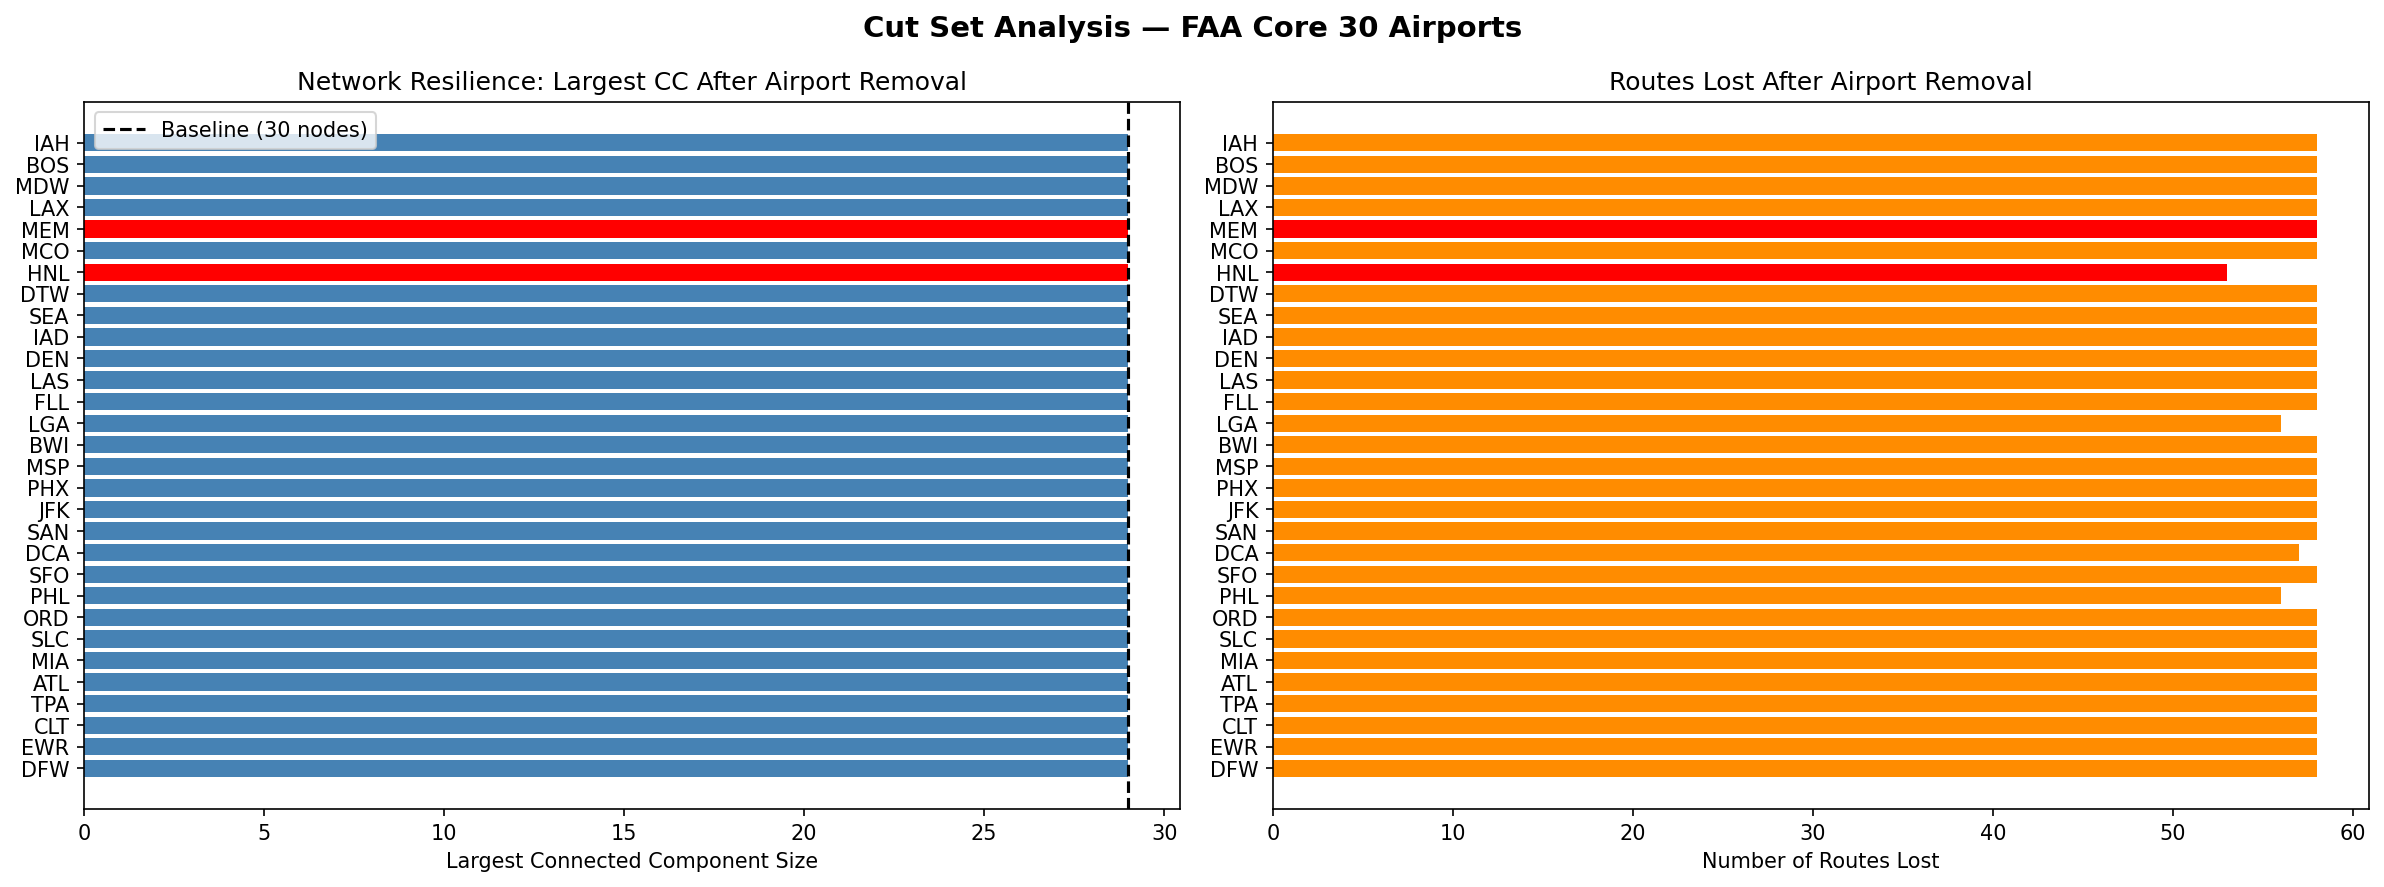
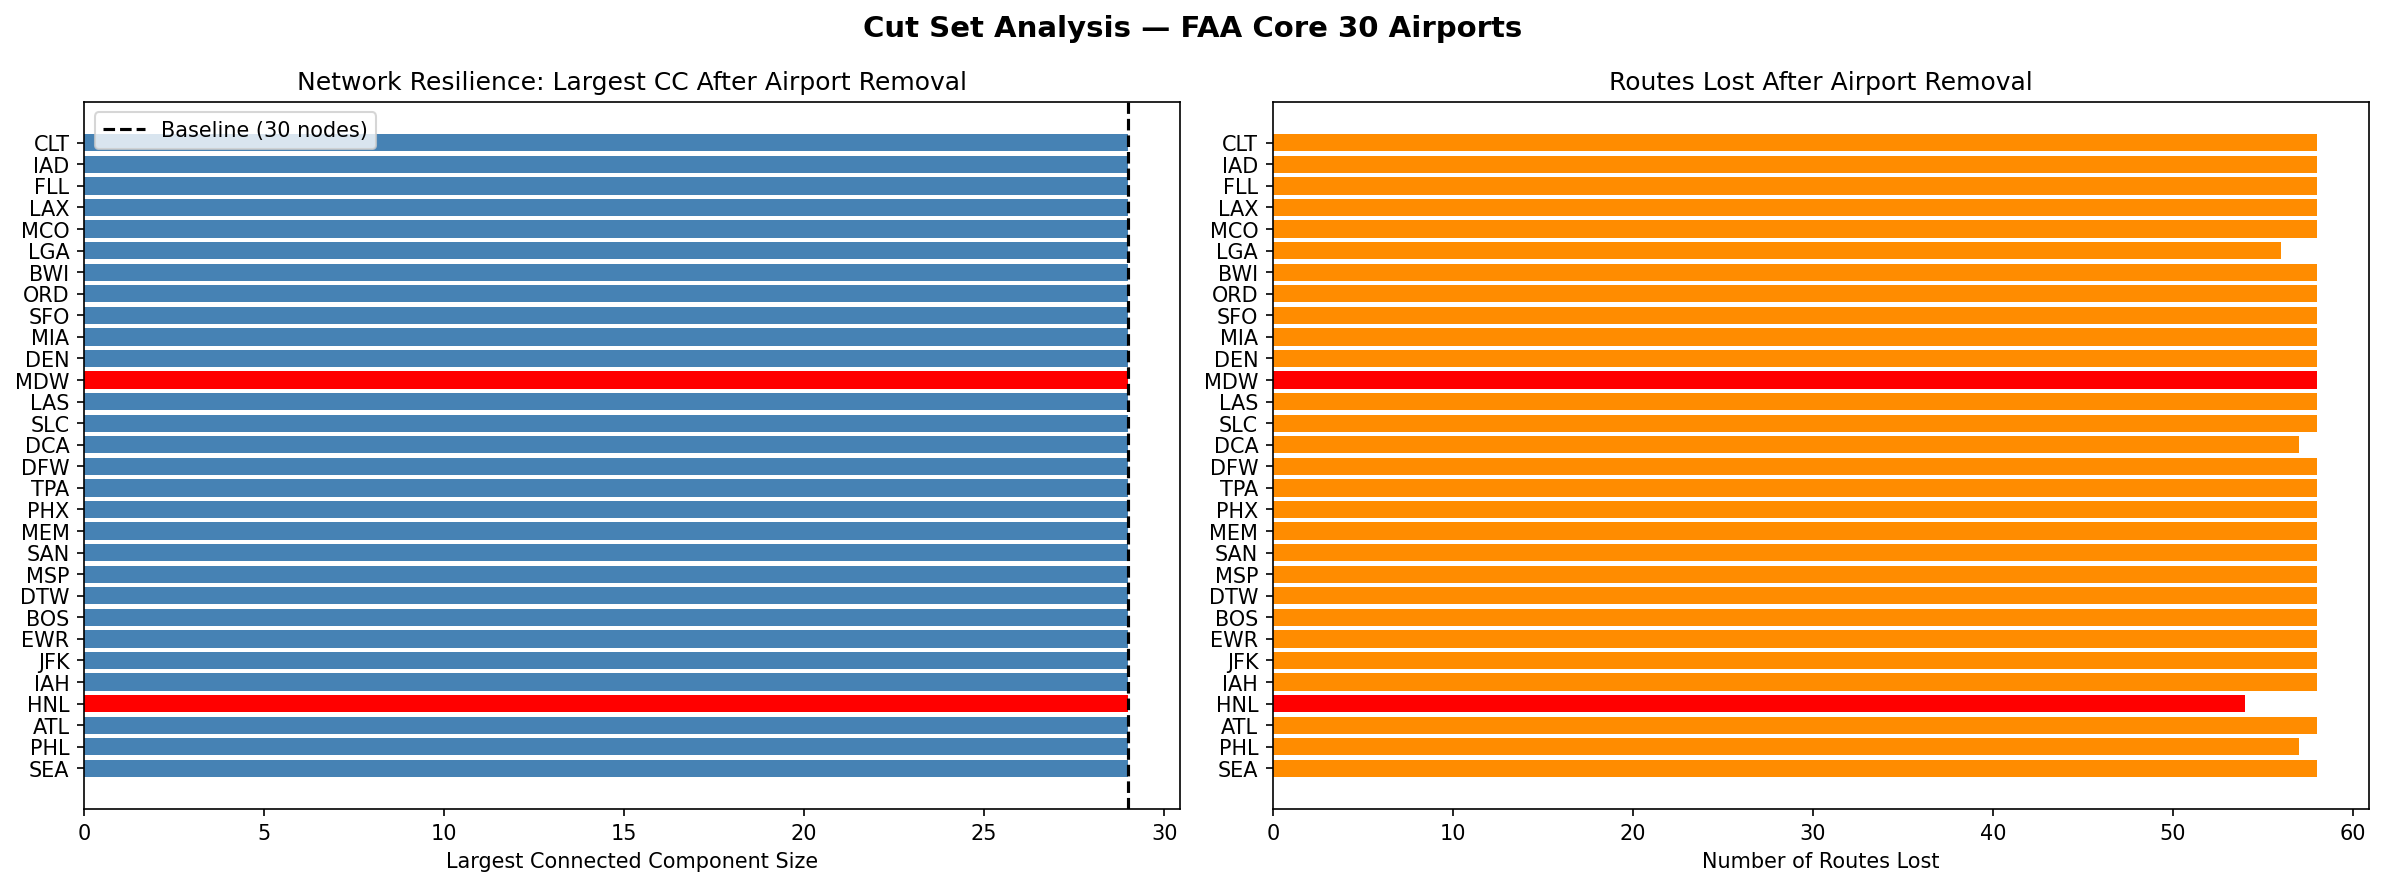
switch to flight departure weighting, update cut set highlights to MDW and HNL

diff --git a/src/analysis.py b/src/analysis.py
@@ -12,25 +12,10 @@ CORE_30 = {"ATL", "BOS", "BWI", "CLT", "DCA", "DEN", "DFW", "DTW", "EWR",
            "SFO", "SLC", "TPA"}
 
 def build_weighted_graph() -> nx.DiGraph:
-    dfs = []
-    
-    # 2018-2020 files (no PASSENGERS column — use 1 as proxy)
-    files_2018_2020 = [
+    all_files = [
         "monthly/T_T100 2018.csv",
         "monthly/T_T100 2019.csv",
         "monthly/T_T100 2020.csv",
-    ]
-    for path in files_2018_2020:
-        df = pd.read_csv(path, low_memory=False)
-        df.columns = df.columns.str.strip().str.upper()
-        df = df[["ORIGIN", "DEST"]].dropna()
-        df["ORIGIN"] = df["ORIGIN"].astype(str).str.strip().str.upper()
-        df["DEST"] = df["DEST"].astype(str).str.strip().str.upper()
-        df["PASSENGERS"] = 1
-        dfs.append(df)
-    
-    # 2021-2025 + 2026 files (have PASSENGERS column)
-    files_with_passengers = [
         "monthly/T_T100D_MARKET_ALL_CARRIER 2_2021.csv",
         "monthly/T_T100D_MARKET_ALL_CARRIER 2_2022.csv",
         "monthly/T_T100D_MARKET_ALL_CARRIER 2_2023.csv",
@@ -38,25 +23,31 @@ def build_weighted_graph() -> nx.DiGraph:
         "monthly/T_T100D_MARKET_ALL_CARRIER 2_2025.csv",
         "T100.csv",
     ]
-    for path in files_with_passengers:
+    
+    dfs = []
+    for path in all_files:
         df = pd.read_csv(path, low_memory=False)
         df.columns = df.columns.str.strip().str.upper().str.replace(" ", "_")
-        df = df[["ORIGIN", "DEST", "PASSENGERS"]].dropna()
+        df = df[["ORIGIN", "DEST"]].dropna()
         df["ORIGIN"] = df["ORIGIN"].astype(str).str.strip().str.upper()
         df["DEST"] = df["DEST"].astype(str).str.strip().str.upper()
+        df = df[df["ORIGIN"] != df["DEST"]]
+        df["DEPARTURES"] = 1  # each row = 1 flight record
         dfs.append(df)
     
     routes = pd.concat(dfs, ignore_index=True)
-    routes = routes[routes["ORIGIN"] != routes["DEST"]]
     routes = routes[routes["ORIGIN"].isin(CORE_30) & routes["DEST"].isin(CORE_30)]
-    route_weights = routes.groupby(["ORIGIN", "DEST"])["PASSENGERS"].sum().reset_index()
+    
+    # Sum rows per route = total flight count
+    route_weights = routes.groupby(["ORIGIN", "DEST"])["DEPARTURES"].sum().reset_index()
     
     G = nx.DiGraph()
     for iata in CORE_30:
         G.add_node(iata)
+    
     for _, row in route_weights.iterrows():
-        if row["PASSENGERS"] > 0:
-            G.add_edge(row["ORIGIN"], row["DEST"], weight=row["PASSENGERS"])
+        if row["DEPARTURES"] > 0:
+            G.add_edge(row["ORIGIN"], row["DEST"], weight=row["DEPARTURES"])
     
     isolated = list(nx.isolates(G))
     G.remove_nodes_from(isolated)
@@ -234,7 +225,7 @@ def plot_cut_set(G):
     fig, axes = plt.subplots(1, 2, figsize=(16, 6))
     
     # Plot 1 - largest connected component after removal
-    colors = ["red" if a in ("MEM", "HNL") else "steelblue" for a in airports]
+    colors = ["red" if a in ("MDW", "HNL") else "steelblue" for a in airports]
     axes[0].barh(airports, largest_ccs, color=colors)
     axes[0].set_xlabel("Largest Connected Component Size")
     axes[0].set_title("Network Resilience: Largest CC After Airport Removal")
@@ -242,7 +233,7 @@ def plot_cut_set(G):
     axes[0].legend()
     
     # Plot 2 - edges lost
-    colors2 = ["red" if a in ("MEM", "HNL") else "darkorange" for a in airports]
+    colors2 = ["red" if a in ("MDW", "HNL") else "darkorange" for a in airports]
     axes[1].barh(airports, edges_lost, color=colors2)
     axes[1].set_xlabel("Number of Routes Lost")
     axes[1].set_title("Routes Lost After Airport Removal")